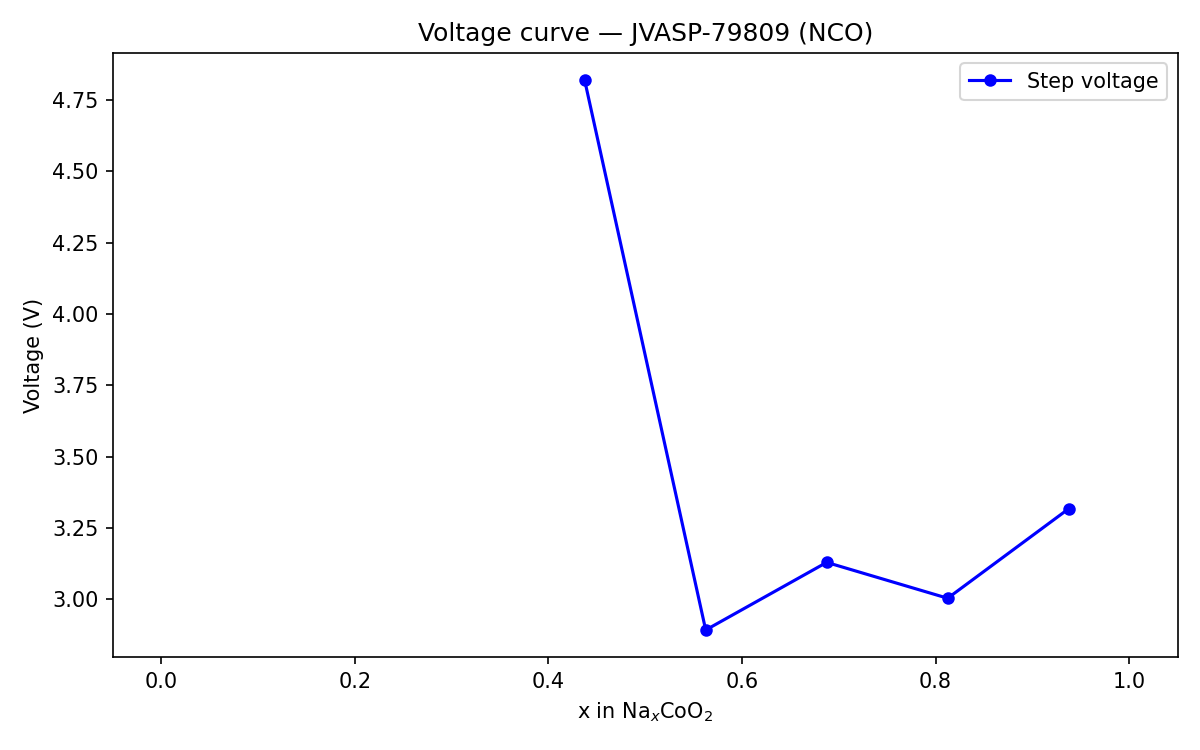
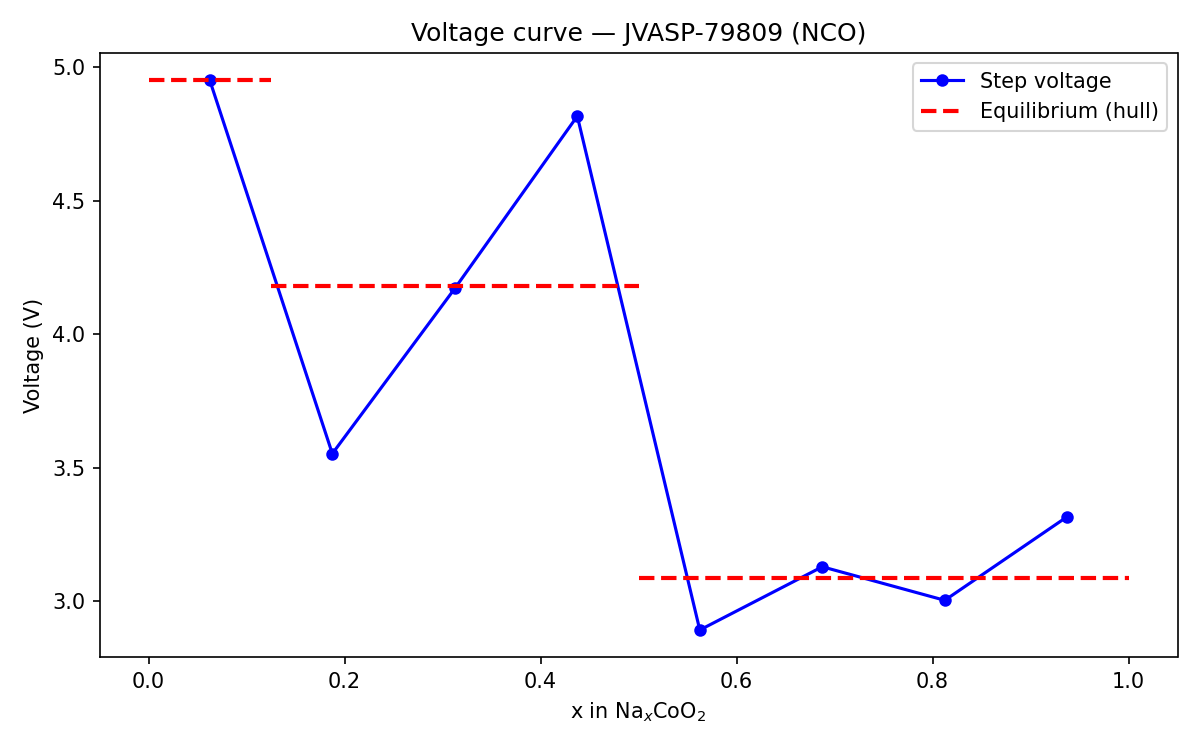
Add completed NaCoO2 chain: full-range average and updated curves

diff --git a/batterymat_jae/screening_cathode/dft_inputs/README_revision_campaigns.md b/batterymat_jae/screening_cathode/dft_inputs/README_revision_campaigns.md
@@ -9,7 +9,7 @@
 > -0.9778 eV/atom optB88-vdW Li reference in `Li_sv/static`; the GGA=OR run moved to
 > `Li_sv_optPBEvdW/`). Runners set NCORE per job so it divides the ranks per k-group.
 
-## Status and results (2026-10-01, evening)
+## Status and results (2026-10-02, all runs complete)
 
 Runs on atomgptlab (`/data/jlee859/revision`, cpu partition, VASP 6 `vasp_std`). Results are
 pulled back with the include-list rsync (energies.json, OUTCAR, CONTCAR, OSZICAR, INCAR, POSCAR,
@@ -23,14 +23,13 @@ KPOINTS, POTCAR_spec; never POTCAR) and summarised by `../analysis/revision_volt
 | `JVASP-2017-LCO` (original, GGA=OR = optPBE-vdW) | kept for comparison | full 4.18 V, x 1->0.5 4.01 V |
 | B. `JVASP-144791-NMC-vdW` | complete, 17/17 converged, no intervention (ISIF=2 after step 0, like the PBE chain) | full **4.76 V** (PBE+U 4.40; exp ~3.7); x 1->0.5 4.28 (PBE 3.94); x 0.5->0 5.24 (PBE 4.86). Near-uniform +0.36 V shift at fixed cell. Cell-relaxed endpoints (ISIF=3 at Li8 and Li0, `extra_2026-10-01/NMC-{PBE,vdW}-ISIF3/`): PBE+U 3.73 / 4.63 / 4.18 V (x 1->0.5 / 0.5->0 / full), optB88 4.02 / 4.88 / 4.45 V; cells contract 5% and 9-10%. So the fixed-cell protocol adds ~0.2 V, optB88 sits 0.25-0.38 V above PBE either way, and the ~0.9 V jump at x=0.5 persists in all four. PBE+U fixed-cell 4.40 V stays the benchmark (JARVIS spacegroup is P1, so the rule routes it to PBE) |
 | C. `spotcheck/` | 28/30 converged (6 delithiated endpoints restarted from their last structure in `extra_2026-10-01/spotcheck-restart/`; Li8MnO6 and Li7FeO6 still drifting after 500 steps) | all: MAE 0.88 V, ME +0.68, Spearman 0.90; redox-metal hosts (n=14): MAE 0.54, offset +0.35, scatter 0.43, Spearman 0.94 (`analysis/spotcheck_stats.json`) |
-| D. `JVASP-79809-NCO` (Na) | steps 0 to 5 converged (step 5 needed a restart after the 24 h limit, ~150 ionic steps); step 6 running on the 7-day script | Na8->Na4: **3.09 V** (exp ~2.9 over x 1->0.5, Lei et al. 2014), +0.19 V. Step Na4->Na3 = 4.82 V (outside measured range) |
+| D. `JVASP-79809-NCO` (Na) | complete, 9/9 states; all converged except step 6 (Na2), which hit NSW = 200; cell -20% at CoO2 | Na8->Na4: **3.09 V** (exp ~2.9 over x 1->0.5, Lei et al. 2014), +0.19 V. Full range **3.73 V** (endpoints converged) against 3.17 V from the force-field screen (FF 0.56 V low); Na4->Na0 4.37 V; step voltages 3.32 / 3.00 / 3.13 / 2.89 / 4.82 / 4.17 / 3.55 / 4.95 V |
 | D. `JVASP-11340-MMO` (Mg) | complete; steps 0 to 15 converged, step 16 (Mg0) hit NSW = 200 unconverged | Mg16->Mg10: **3.10 V** vs ~3.4 V (Okamoto et al. 2015), -0.30 V. Hull 3.08 / 3.11 / 3.32 / 3.43 / 3.66 V over Mg16->Mg1 (the unconverged Mg0 step excluded); Mg16->Mg1 3.22 V |
 | D. metal references | complete | Na: PBE -1.31054, optB88 +0.91960; Mg: PBE -1.50576, optB88 +1.10509 eV/atom (in `dft_prep._E_ION_METAL`) |
 | Li optB88 reference `JVASP-913-Li/Li_sv_optB88vdW` | complete | -0.97791 eV/atom (confirms -0.9778) |
 | `JVASP-{141543,154749,77457,116849}-B88` (true-optB88 reruns of the prospective runs) | all complete | Rb2LiFeF6 A 6.127 V, B 6.128 V (optPBE 6.03); LiCa2Ag 0.446 V (optPBE 0.41); LiV2F7 4.918 V (optPBE 4.84). Prospective FF-vs-DFT MAE 0.88 -> 0.90 V |
 
-Local copies of the running chains are only refreshed when results are pulled, so the local
-`energies.json` of NCO lags the cluster.
+All chains are complete and the local copies are current (2026-10-02).
 
 VASP input bundles for four new campaigns answering the referee reports. Everything here
 was generated on 2026-09-24 with `../dft_prep.py` (see "Changes to dft_prep.py" below) and

diff --git a/batterymat_jae/screening_cathode/analysis/revision_voltages.md b/batterymat_jae/screening_cathode/analysis/revision_voltages.md
@@ -5,7 +5,7 @@
 | LiCoO2, optPBE-vdW+U (original run) | optpbevdw | 8->0 of 8 | 4.18 |  | 4.01, 4.23, 4.47 |  |
 | NMC cell, optB88-vdW+U | optb88vdw | 16->0 of 16 | 4.76 |  | 4.10, 4.20, 4.34, 4.46, 5.18, 5.20, 5.24, 5.25, 5.33, 5.34 |  |
 | NMC cell, PBE+U (original run) | pbe | 16->0 of 16 | 4.40 |  | 3.52, 3.97, 4.08, 4.18, 4.86 |  |
-| O3-NaCoO2, optB88-vdW+U | optb88vdw | 8->3 of 8 | 3.43 | 8->4: 3.09 | 3.09, 4.82 |  |
+| O3-NaCoO2, optB88-vdW+U | optb88vdw | 8->0 of 8 | 3.73 | 8->4: 3.09 | 3.09, 4.18, 4.95 | step_06_Na2 |
 | MgMn2O4, PBE+U | pbe | 16->0 of 16 | 3.24 | 16->10: 3.10 | 3.08, 3.11, 3.32, 3.43, 3.60 | step_16_Mg0 |
 | Rb2LiFeF6 (A), optB88-vdW+U | optb88vdw | 2->0 of 2 | 6.13 |  | 6.13 |  |
 | Rb2LiFeF6 (B), optB88-vdW+U | optb88vdw | 2->0 of 2 | 6.13 |  | 6.13 |  |
